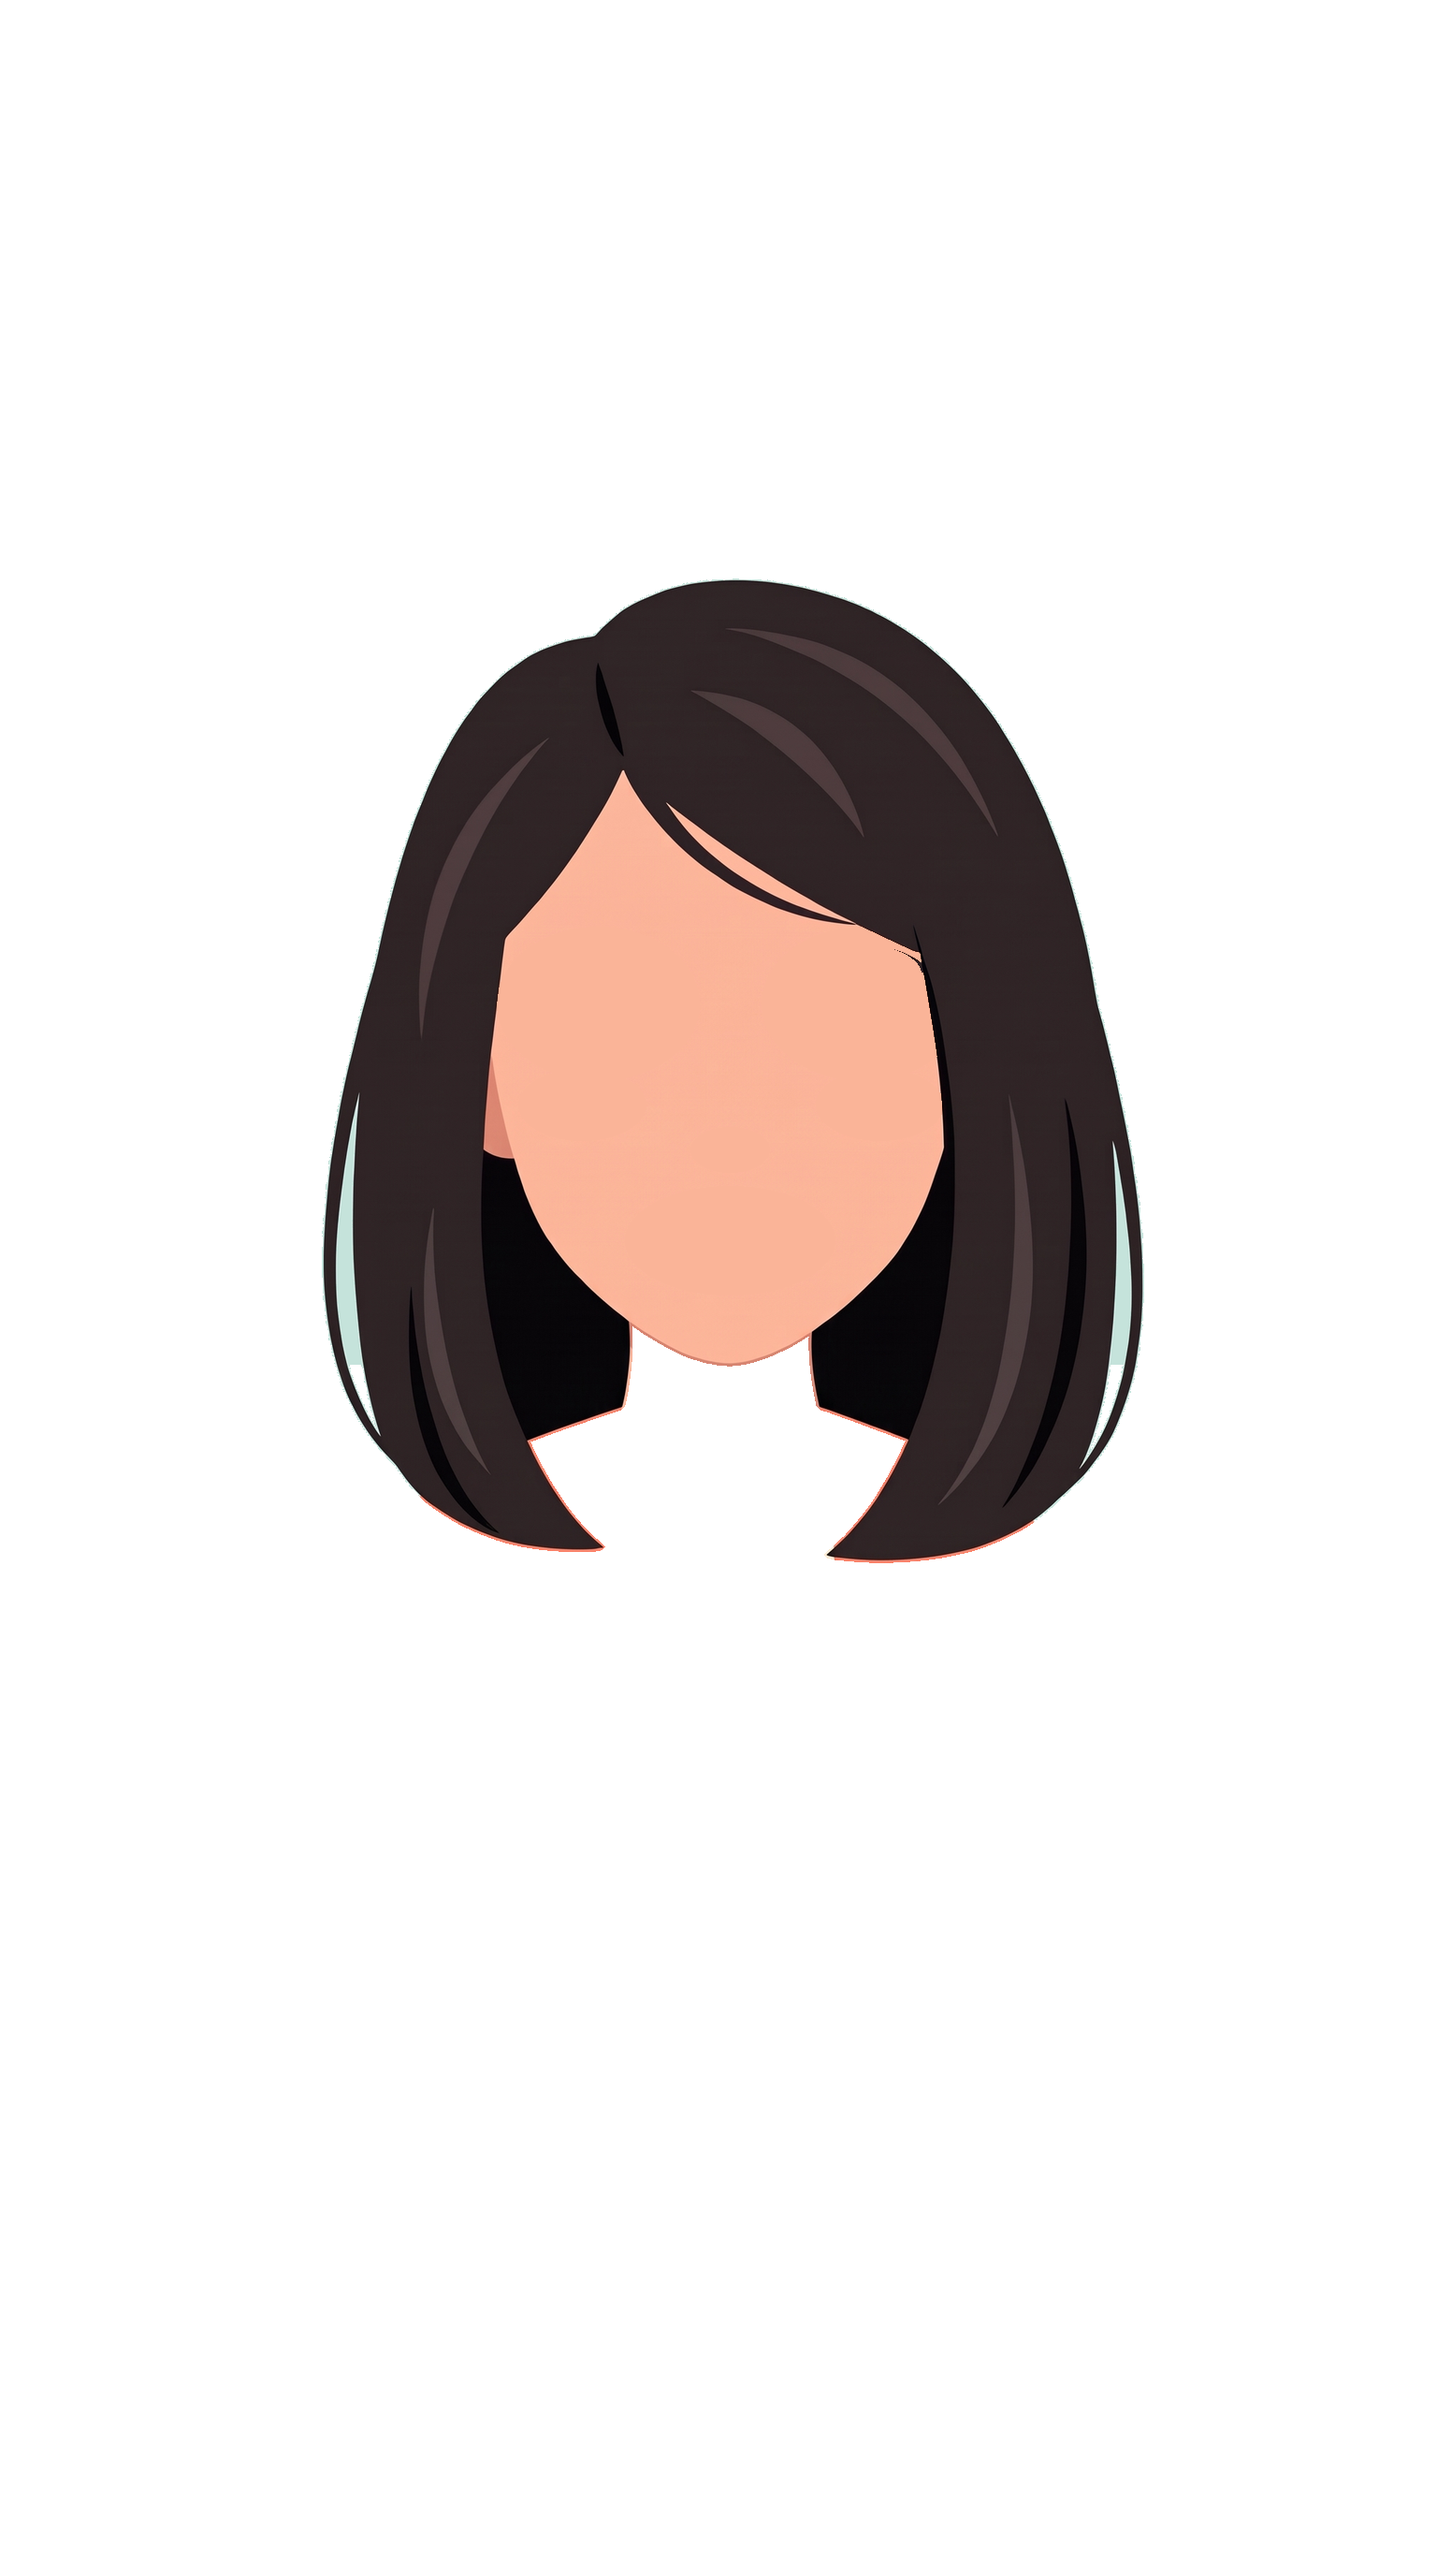
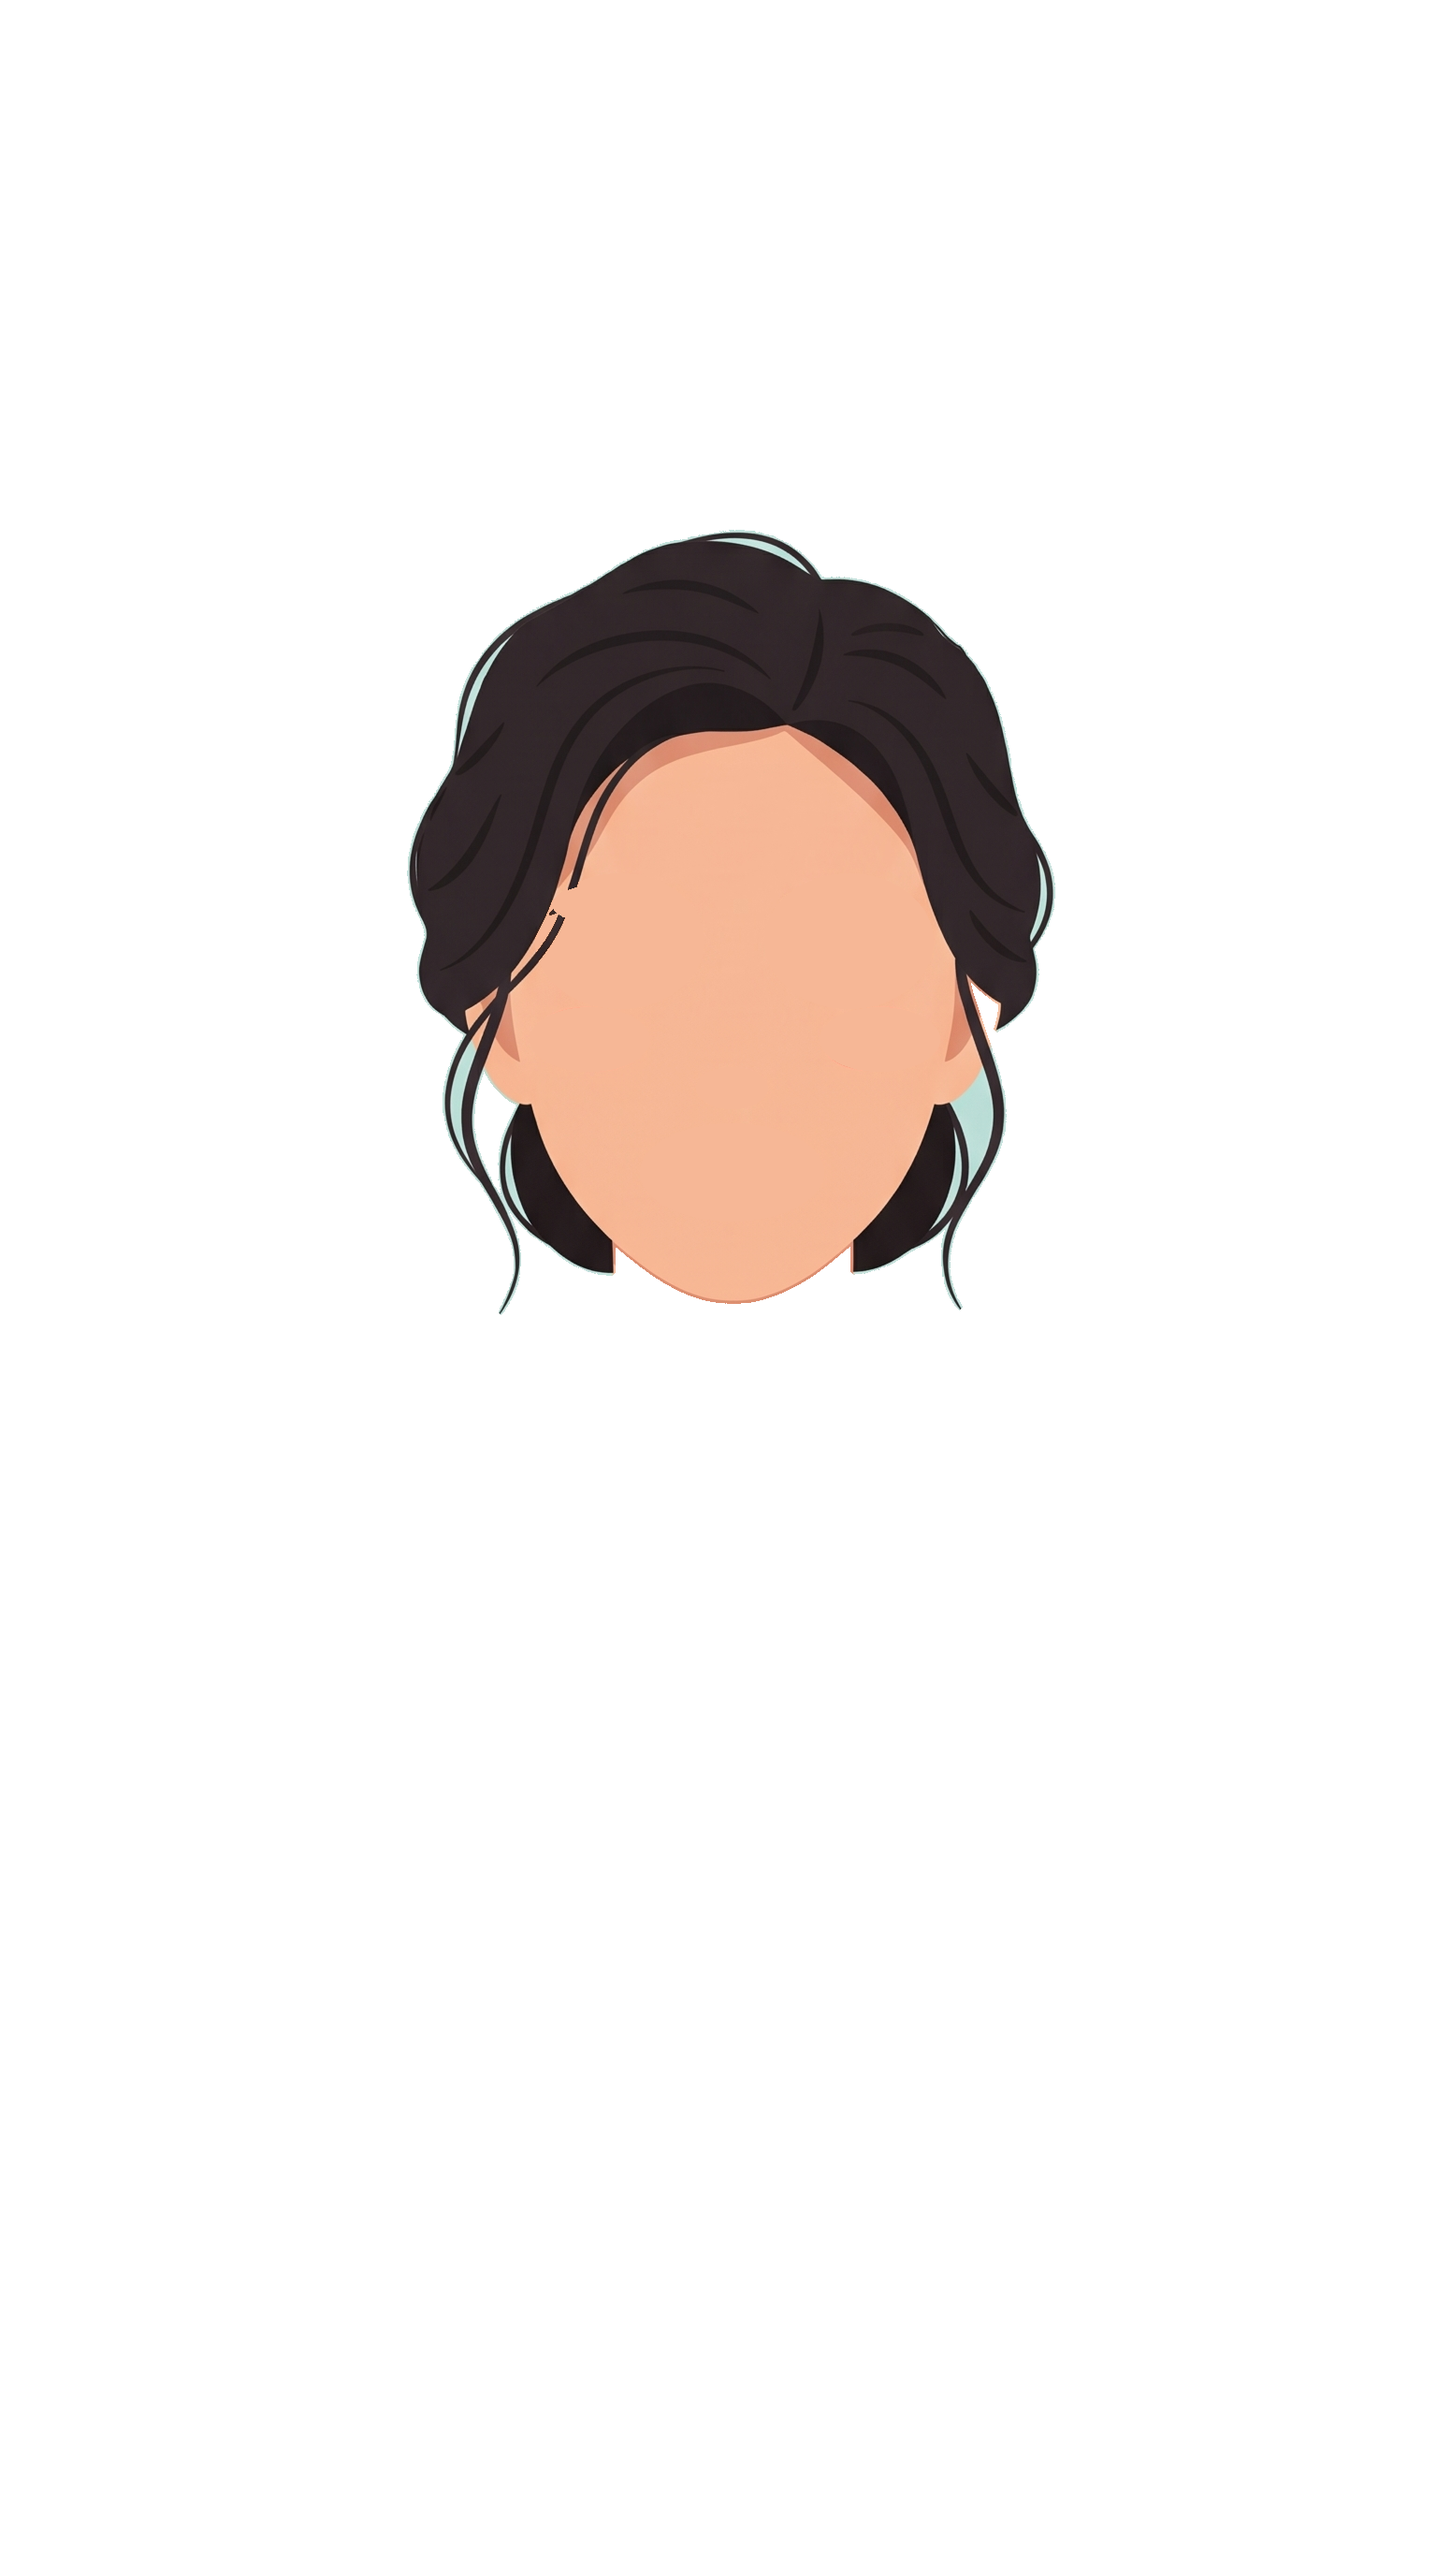
feat(寧寧): 換造型＋真人比例＋拿掉桌子；頭髮跟臉一起動
Edward 10/26：頭太大、不要桌子、大小照原本照片寧寧的視訊構圖、造型參考低髮髻＋米白開襟；
頭髮要跟著臉一起動（之前五官多移，看起來像臉在頭髮裡滑動、兩側像破圖）。
- 新底圖：畫法照 Rive 試驗室、構圖比例照 nening-v2-full、造型照 Lily 參考照
- 臉旁沒連在主頭髮上的細髮絲也算頭（不然轉頭時留在原地）
- 五官相對頭只多移 0.3%（原 1.4%）
- 素材 452KB

Changed region(s): [[0.2188, 0.1875, 0.8125, 0.625]]

diff --git a/web/src/companion-face.js b/web/src/companion-face.js
@@ -8,13 +8,12 @@
   'use strict';
   var DIR = 'avatars/ningning-rig/';
   var SKIN = {
-    bg: '#C5E3DB',           // 跟圖的背景同色：手機比圖寬的時候，兩側看不出邊
-    zoom: 1,                 // 整張圖佔滿畫面高度；距離感已畫進圖裡（人坐在桌前、縮在畫面中央）
+    bg: '#BADDD6',           // 跟圖的背景同色：手機比圖寬的時候，兩側看不出邊
+    zoom: 1,                 // 整張圖佔滿畫面高度；大小比例照原本照片寧寧的視訊構圖
     aspect: 1536 / 2752,
-    pivot: [50.8, 53.0],     // 頭轉動的軸心（下巴下緣、脖子上端），以整張圖的百分比計
-    waist: 73.6,             // 身體晃動的軸心高度（手肘靠桌的那條線）
+    pivot: [50.9, 50.5],     // 頭轉動的軸心（下巴下緣、脖子上端），以整張圖的百分比計
+    waist: 100,              // 身體晃動的軸心高度（畫面底邊）
     layers: {
-      table: DIR + 'table.webp',
       body: DIR + 'body.webp', head: DIR + 'head.webp', feat: DIR + 'feat.webp',
       half: DIR + 'mouth-half.webp', open: DIR + 'mouth-open.webp', eyes: DIR + 'eyes-closed.webp',
     },
@@ -190,7 +189,7 @@
       this._show('eyes', now < this._blinkUntil);
 
       if (this._still) return;
-      // 身體：4.2 秒一次呼吸（胸口微微起伏）＋7.3 秒一次很輕的重心左右晃，以手肘靠桌那條線為軸
+      // 身體：4.2 秒一次呼吸（胸口微微起伏）＋7.3 秒一次很輕的重心左右晃，以畫面底邊為軸
       var br = Math.sin(t * 2 * Math.PI / 4.2);
       var sway = Math.sin(t * 2 * Math.PI / 7.3) * 0.5;
       this.body.style.transform = 'translateY(' + (-br * 0.22).toFixed(3) + '%) rotate(' + sway.toFixed(3) + 'deg) scale('
@@ -203,8 +202,8 @@
       var nod = 0.45 * Math.sin(t * 2 * Math.PI / 3.9 + 0.7) + this._nod;
       this.head.style.transform = 'translate(' + (turn * 1.1).toFixed(3) + '%,' + (nod * 0.55).toFixed(3) + '%) rotate('
         + (-turn * 3.2).toFixed(3) + 'deg)';
-      // 五官往轉頭的方向多走一點＝看起來像臉真的轉過去，而不是整顆頭平移
-      this.feat.style.transform = 'translate(' + (turn * 1.4).toFixed(3) + '%,' + (nod * 0.4).toFixed(3) + '%)';
+      // 五官只比頭多走一點點：多太多會像臉在頭髮裡面滑動（Edward 10/26：頭髮要跟著臉一起動）
+      this.feat.style.transform = 'translate(' + (turn * 0.3).toFixed(3) + '%,' + (nod * 0.1).toFixed(3) + '%)';
     },
   };
 

diff --git a/web/src/styles.css b/web/src/styles.css
@@ -884,7 +884,7 @@ html[lang="es"] #connect .cn-row .cn-btn {
 /* 人物舞台：照原圖比例、底邊貼齊畫面底、左右置中；兩側露出的地方就是同色背景，看不出邊 */
 .ff-stage { position: absolute; left: 50%; bottom: 0; height: 100%; aspect-ratio: 1536 / 2752; transform: translateX(-50%); }
 .ff-part { position: absolute; inset: 0; will-change: transform; }
-.ff-body { transform-origin: 50% 73.6%; }
+.ff-body { transform-origin: 50% 100%; }
 .ff-faceclip { -webkit-mask-size: 100% 100%; mask-size: 100% 100%; -webkit-mask-repeat: no-repeat; mask-repeat: no-repeat; }
 .ff-img { position: absolute; inset: 0; width: 100%; height: 100%; display: block; user-select: none; -webkit-user-drag: none; }
 .ff-half, .ff-open, .ff-eyes { visibility: hidden; }

diff --git a/tools/ningning-rig/build_rig.py b/tools/ningning-rig/build_rig.py
@@ -21,6 +21,16 @@ dark = lum < 90
 lab, n = ndi.label(dark)
 sizes = ndi.sum(dark, lab, range(1, n+1))
 hair = lab == (1 + int(np.argmax(sizes)))
+if cfg.get('hair_all_pieces'):
+    # 臉旁垂下的細髮絲常跟主頭髮沒連在一起：凡是不在五官範圍裡的深色塊都算頭髮，轉頭時才會一起動
+    featz = ell(cfg['features'])
+    for i in range(1, n + 1):
+        comp = lab == i
+        if sizes[i - 1] < 20: continue
+        ys_, xs_ = np.where(comp)
+        if ys_.mean() > cfg['chin_y'] + 200: continue
+        if (comp & featz).sum() / comp.sum() > 0.5: continue
+        hair |= comp
 hair &= ~ell(cfg['brows'])            # 眉毛碰到瀏海也算五官
 bgc = np.array(cfg['bg'], float); is_bg = np.abs(b - bgc).sum(axis=2) < 30
 # 臉＝從臉中央長出去的皮膚色，限制在下巴以上
